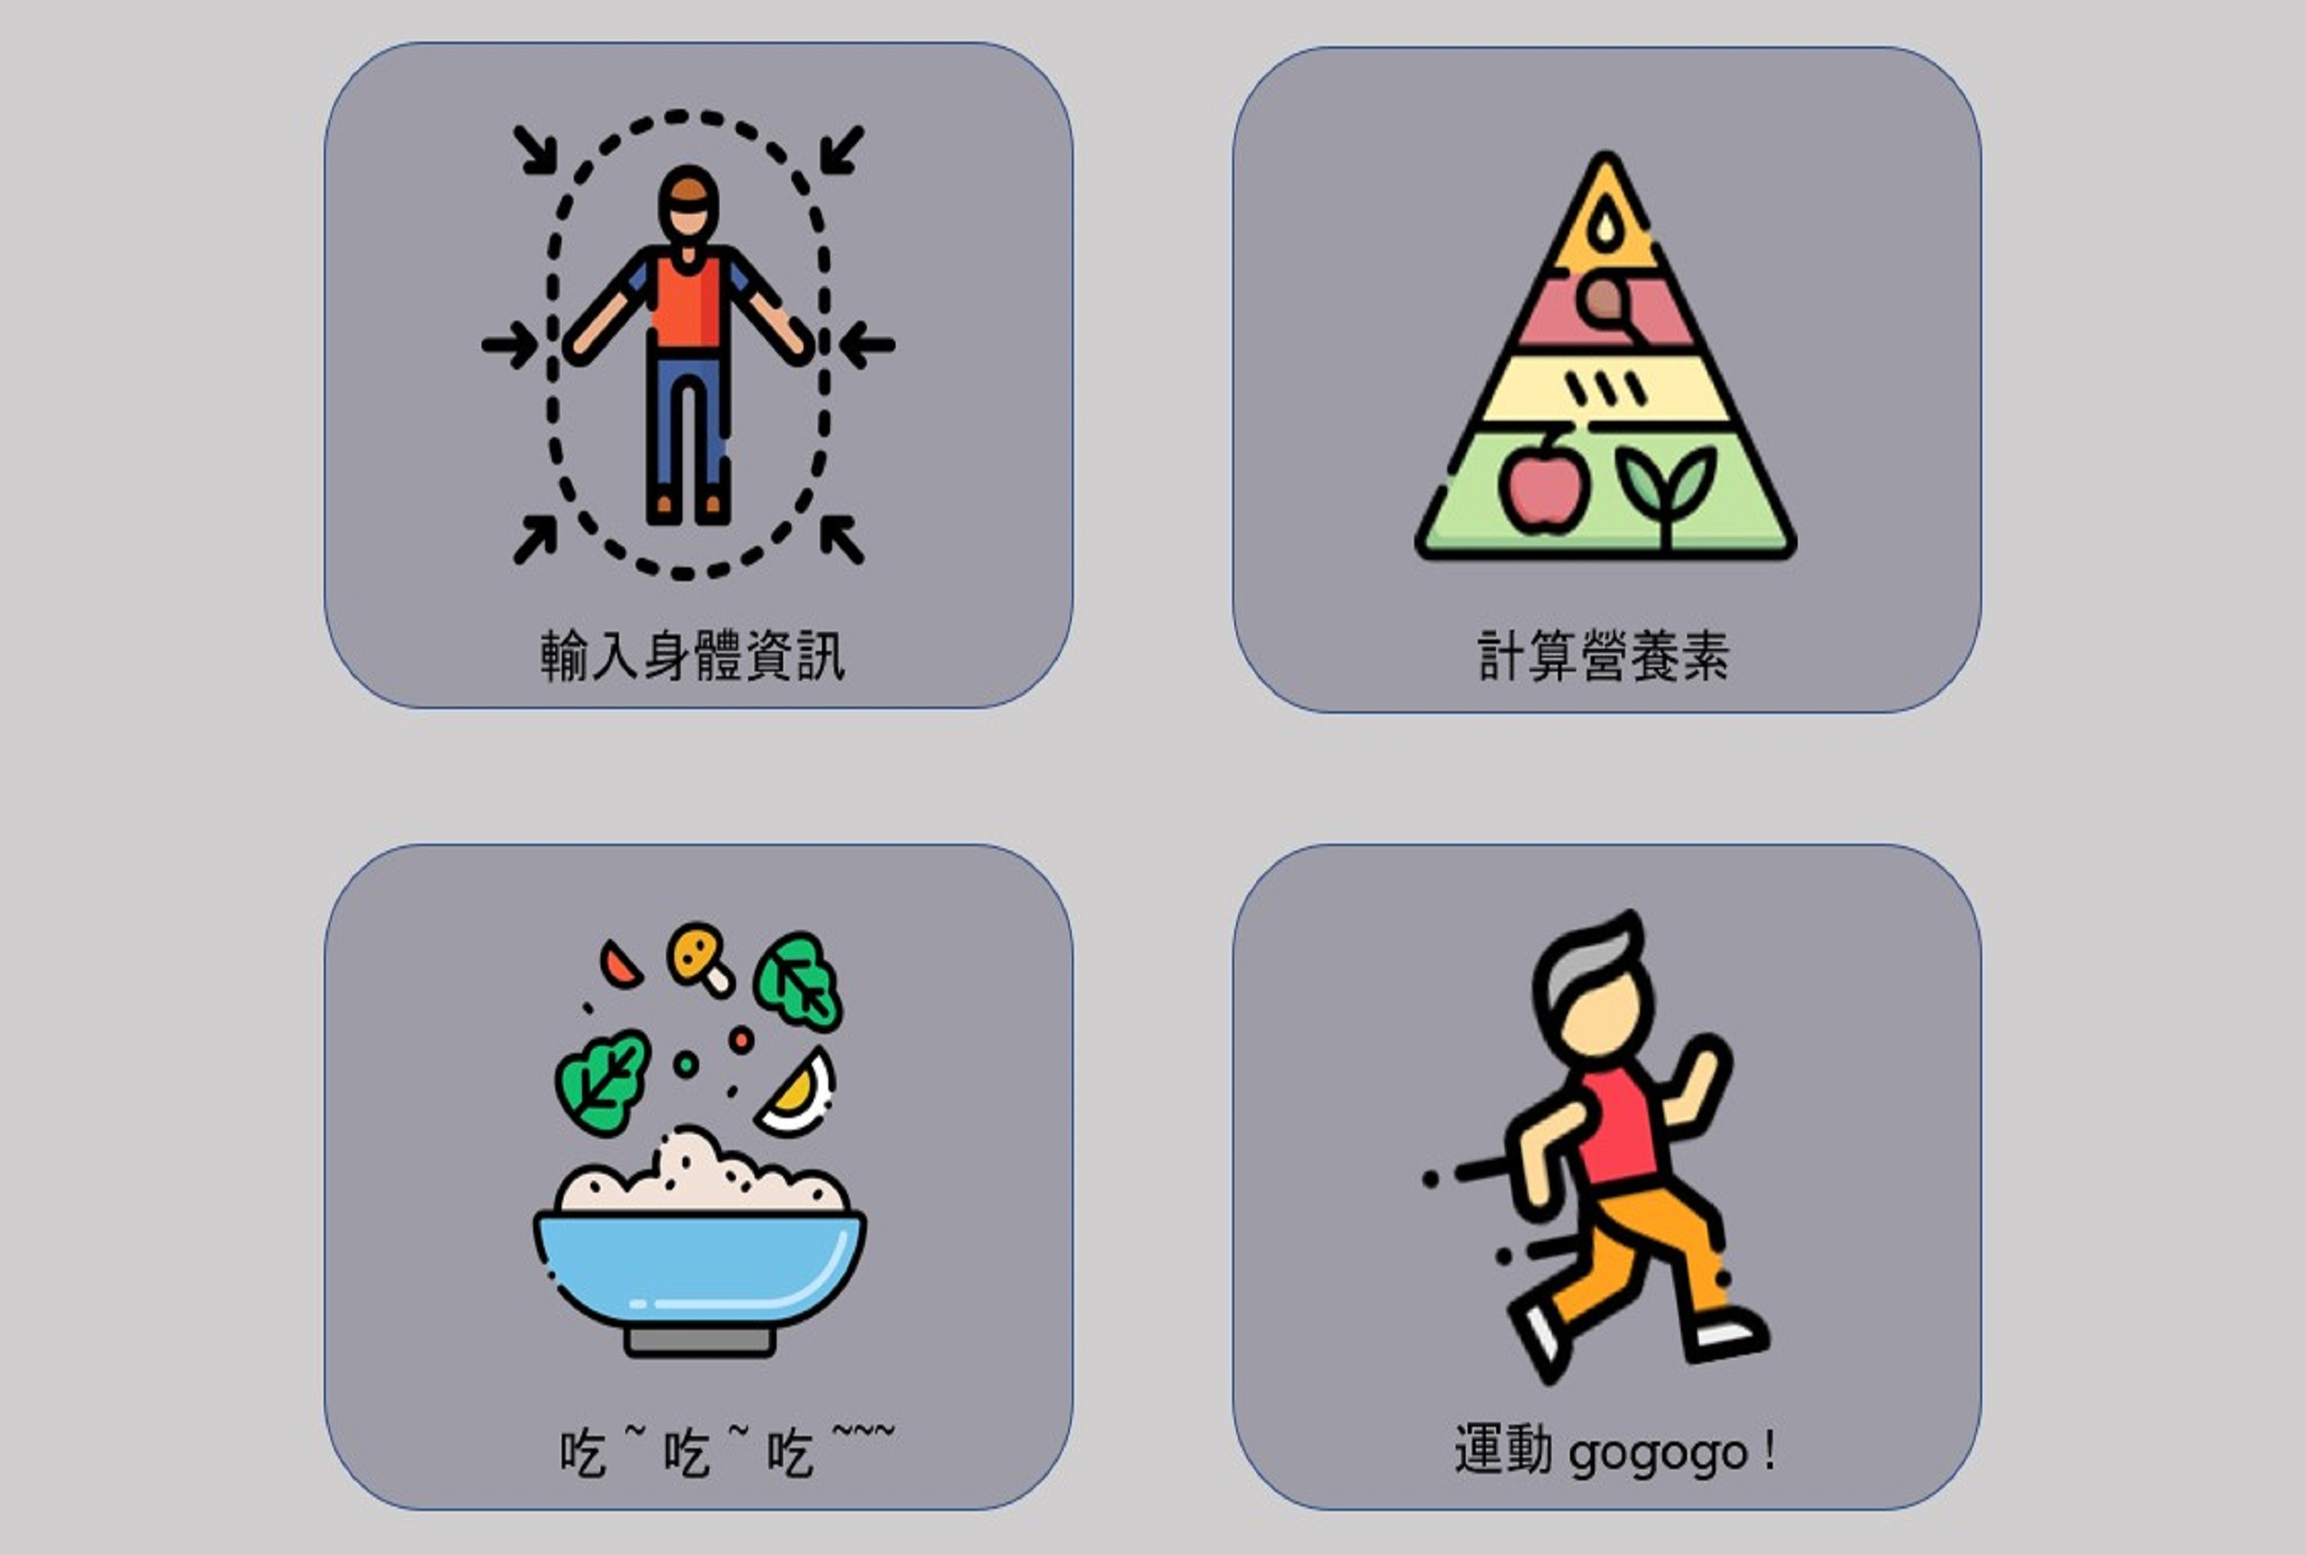
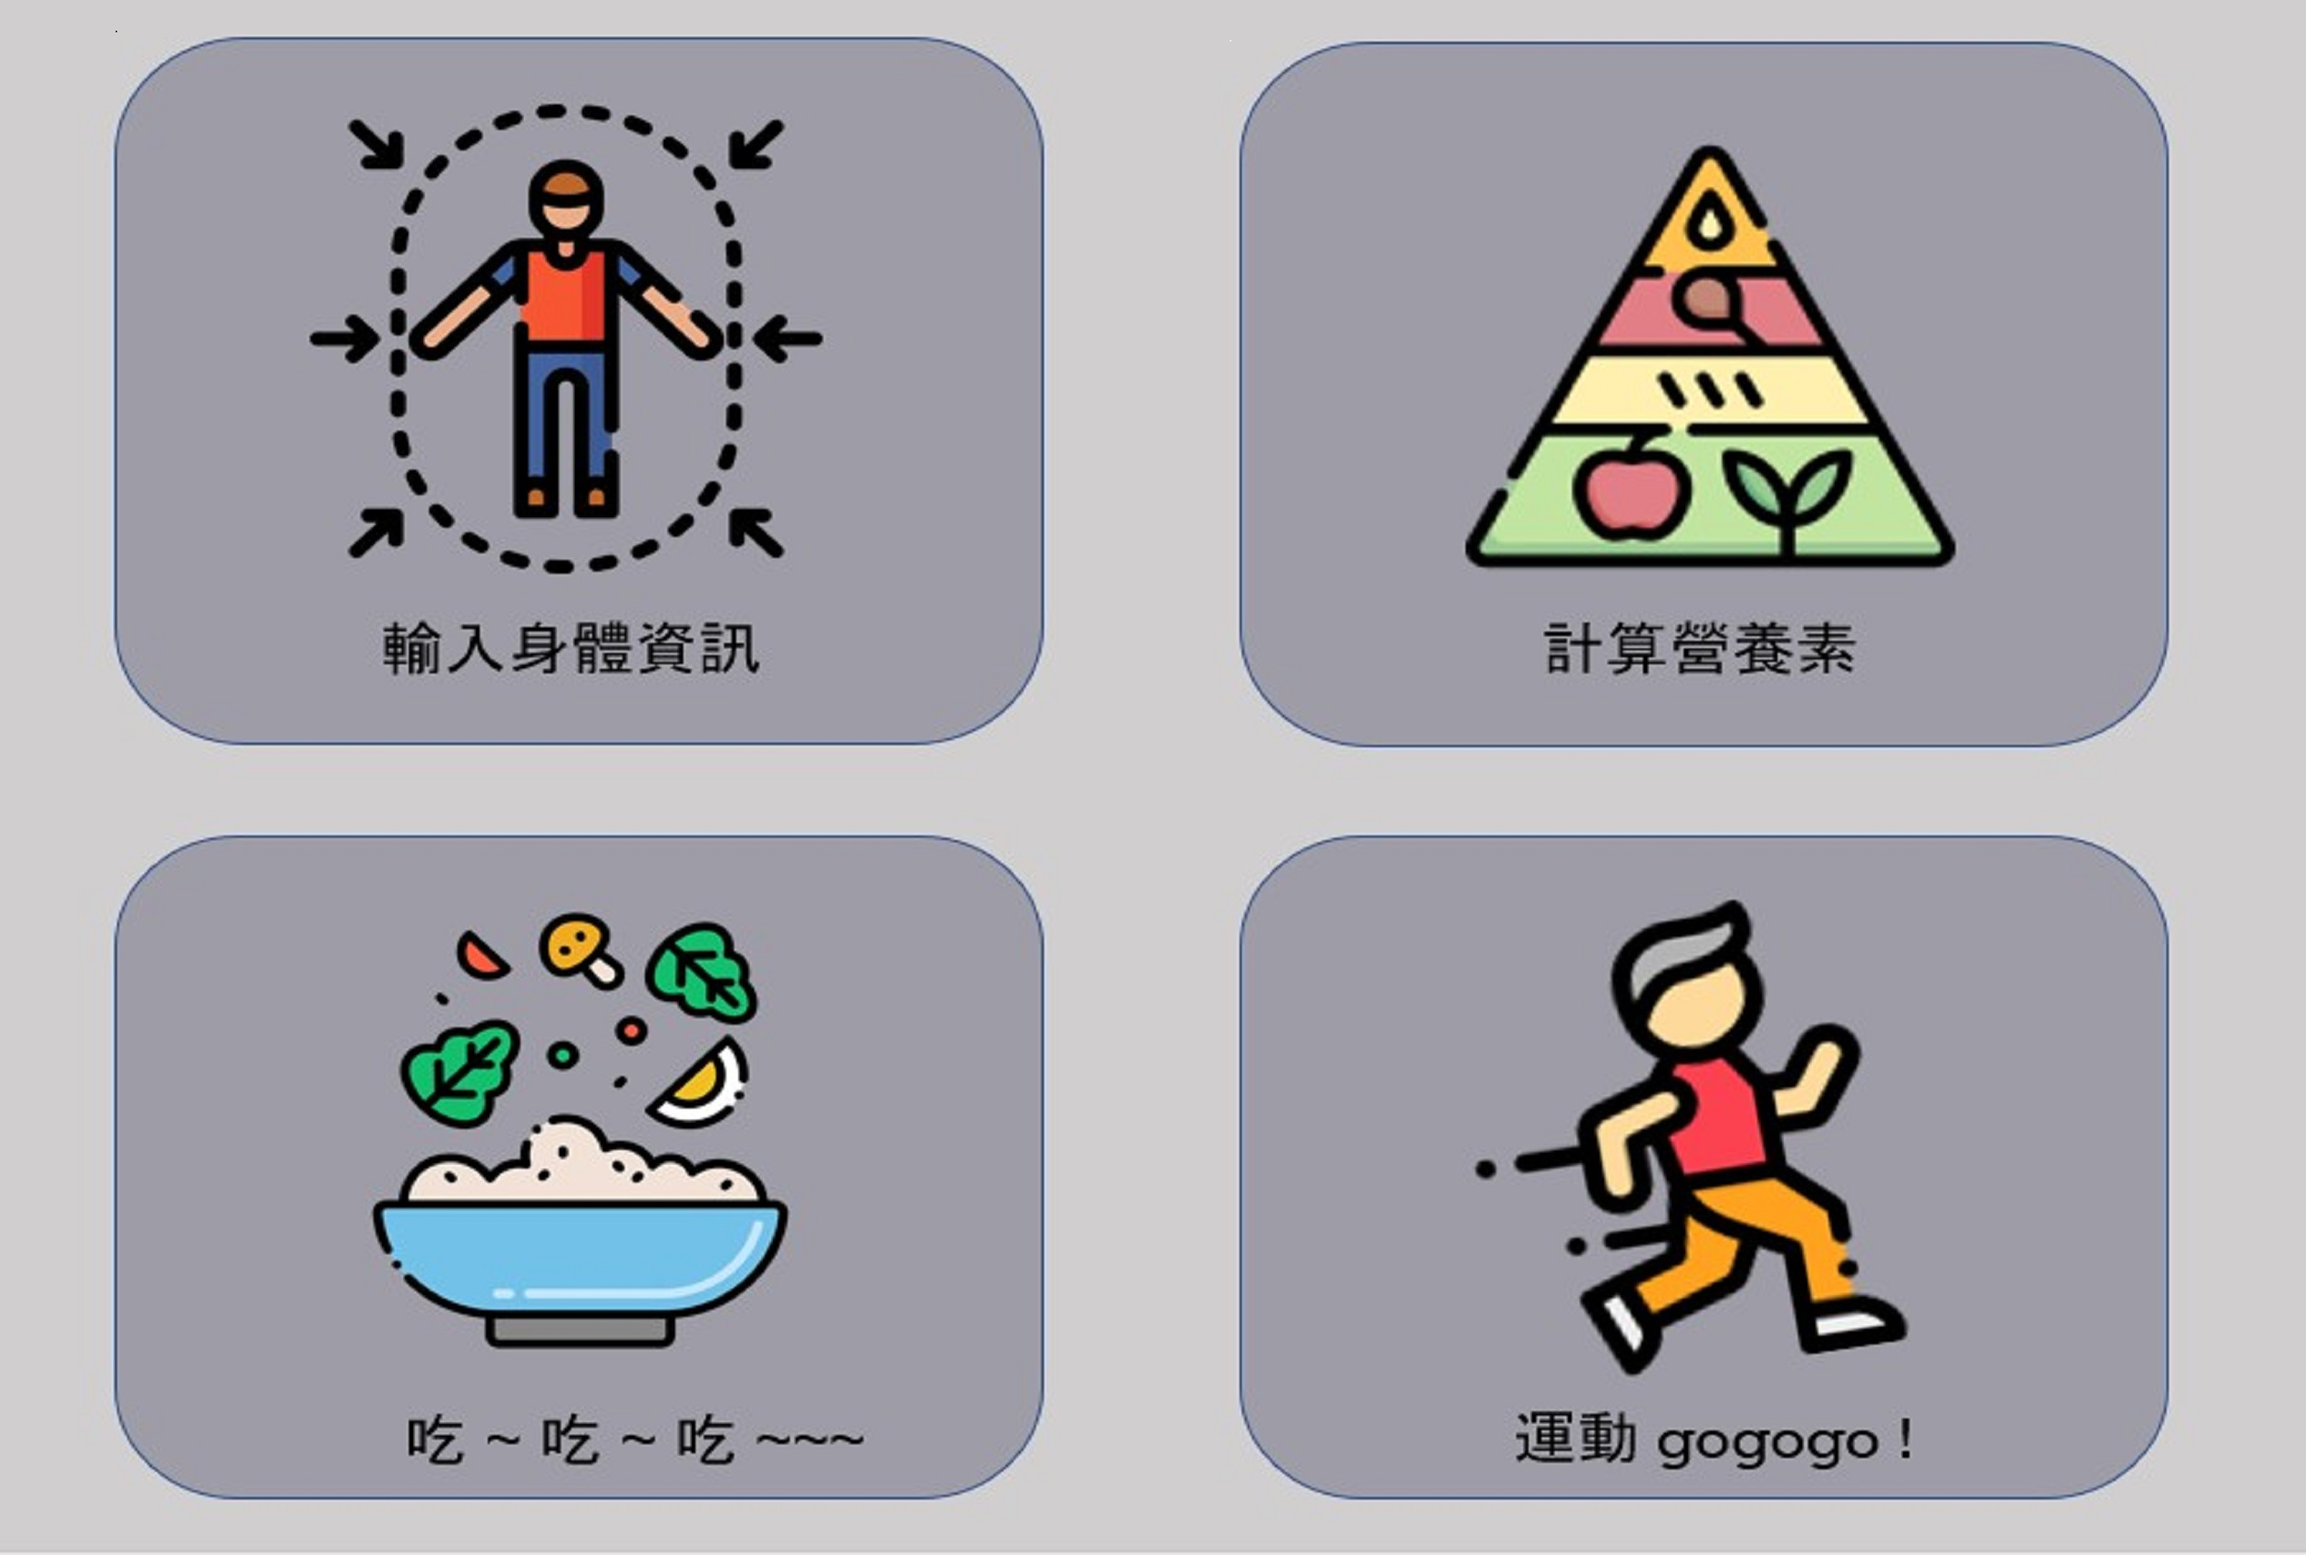
update

diff --git a/NutritionBot/rich_menu.py b/NutritionBot/rich_menu.py
@@ -12,19 +12,19 @@ body = {
     "chatBarText": "更多資訊",
     "areas":[
         {
-          "bounds": {"x": 333, "y": 56, "width": 841, "height": 711},
+          "bounds": {"x": 113, "y": 45, "width": 1036, "height": 762},
           "action": {"type": "message", "text": "身體資訊"}
         },
         {
-          "bounds": {"x": 1316, "y": 56, "width": 841, "height": 711},
+          "bounds": {"x": 1321, "y": 45, "width": 1036, "height": 762},
           "action": {"type": "message", "text": "營養素"}
         },
         {
-          "bounds": {"x": 333, "y": 916, "width": 841, "height": 711},
+          "bounds": {"x": 113, "y": 910, "width": 1036, "height": 762},
           "action": {"type": "message", "text": "運動 gogo"}
         },
         {
-          "bounds": {"x": 1316, "y": 916, "width": 841, "height": 711},
+          "bounds": {"x": 1321, "y": 910, "width": 1036, "height": 762},
           "action": {"type": "message", "text": "身體資訊"}
         }
     ]
@@ -34,7 +34,6 @@ req = requests.request('POST', 'https://api.line.me/v2/bot/richmenu',
                        headers=headers,data=json.dumps(body).encode('utf-8'))
 
 print(req.text)
-# print(type(req.text))
 
 
 from linebot import (
@@ -42,7 +41,7 @@ from linebot import (
 )
 # # =======================================================
 line_bot_api = LineBotApi(token)
-rich_menu_id = 'richmenu-a7695299f5a307505972770309a72968'
+rich_menu_id = 'richmenu-7121f9246d048f658b24ca79cd5e1dc9'
 # # =======================================================
 # path = r'F:\AI\Line_Chatbot\NutritionBot\NutritionBot\menu.jpg'
 #

diff --git a/mylinebot/settings.py b/mylinebot/settings.py
@@ -11,7 +11,7 @@ https://docs.djangoproject.com/en/3.2/ref/settings/
 """
 
 from pathlib import Path
-domain = '7afc-140-118-122-35.ngrok.io'
+domain = '9d77-140-118-122-35.ngrok.io'
 
 # Build paths inside the project like this: BASE_DIR / 'subdir'.
 BASE_DIR = Path(__file__).resolve().parent.parent
